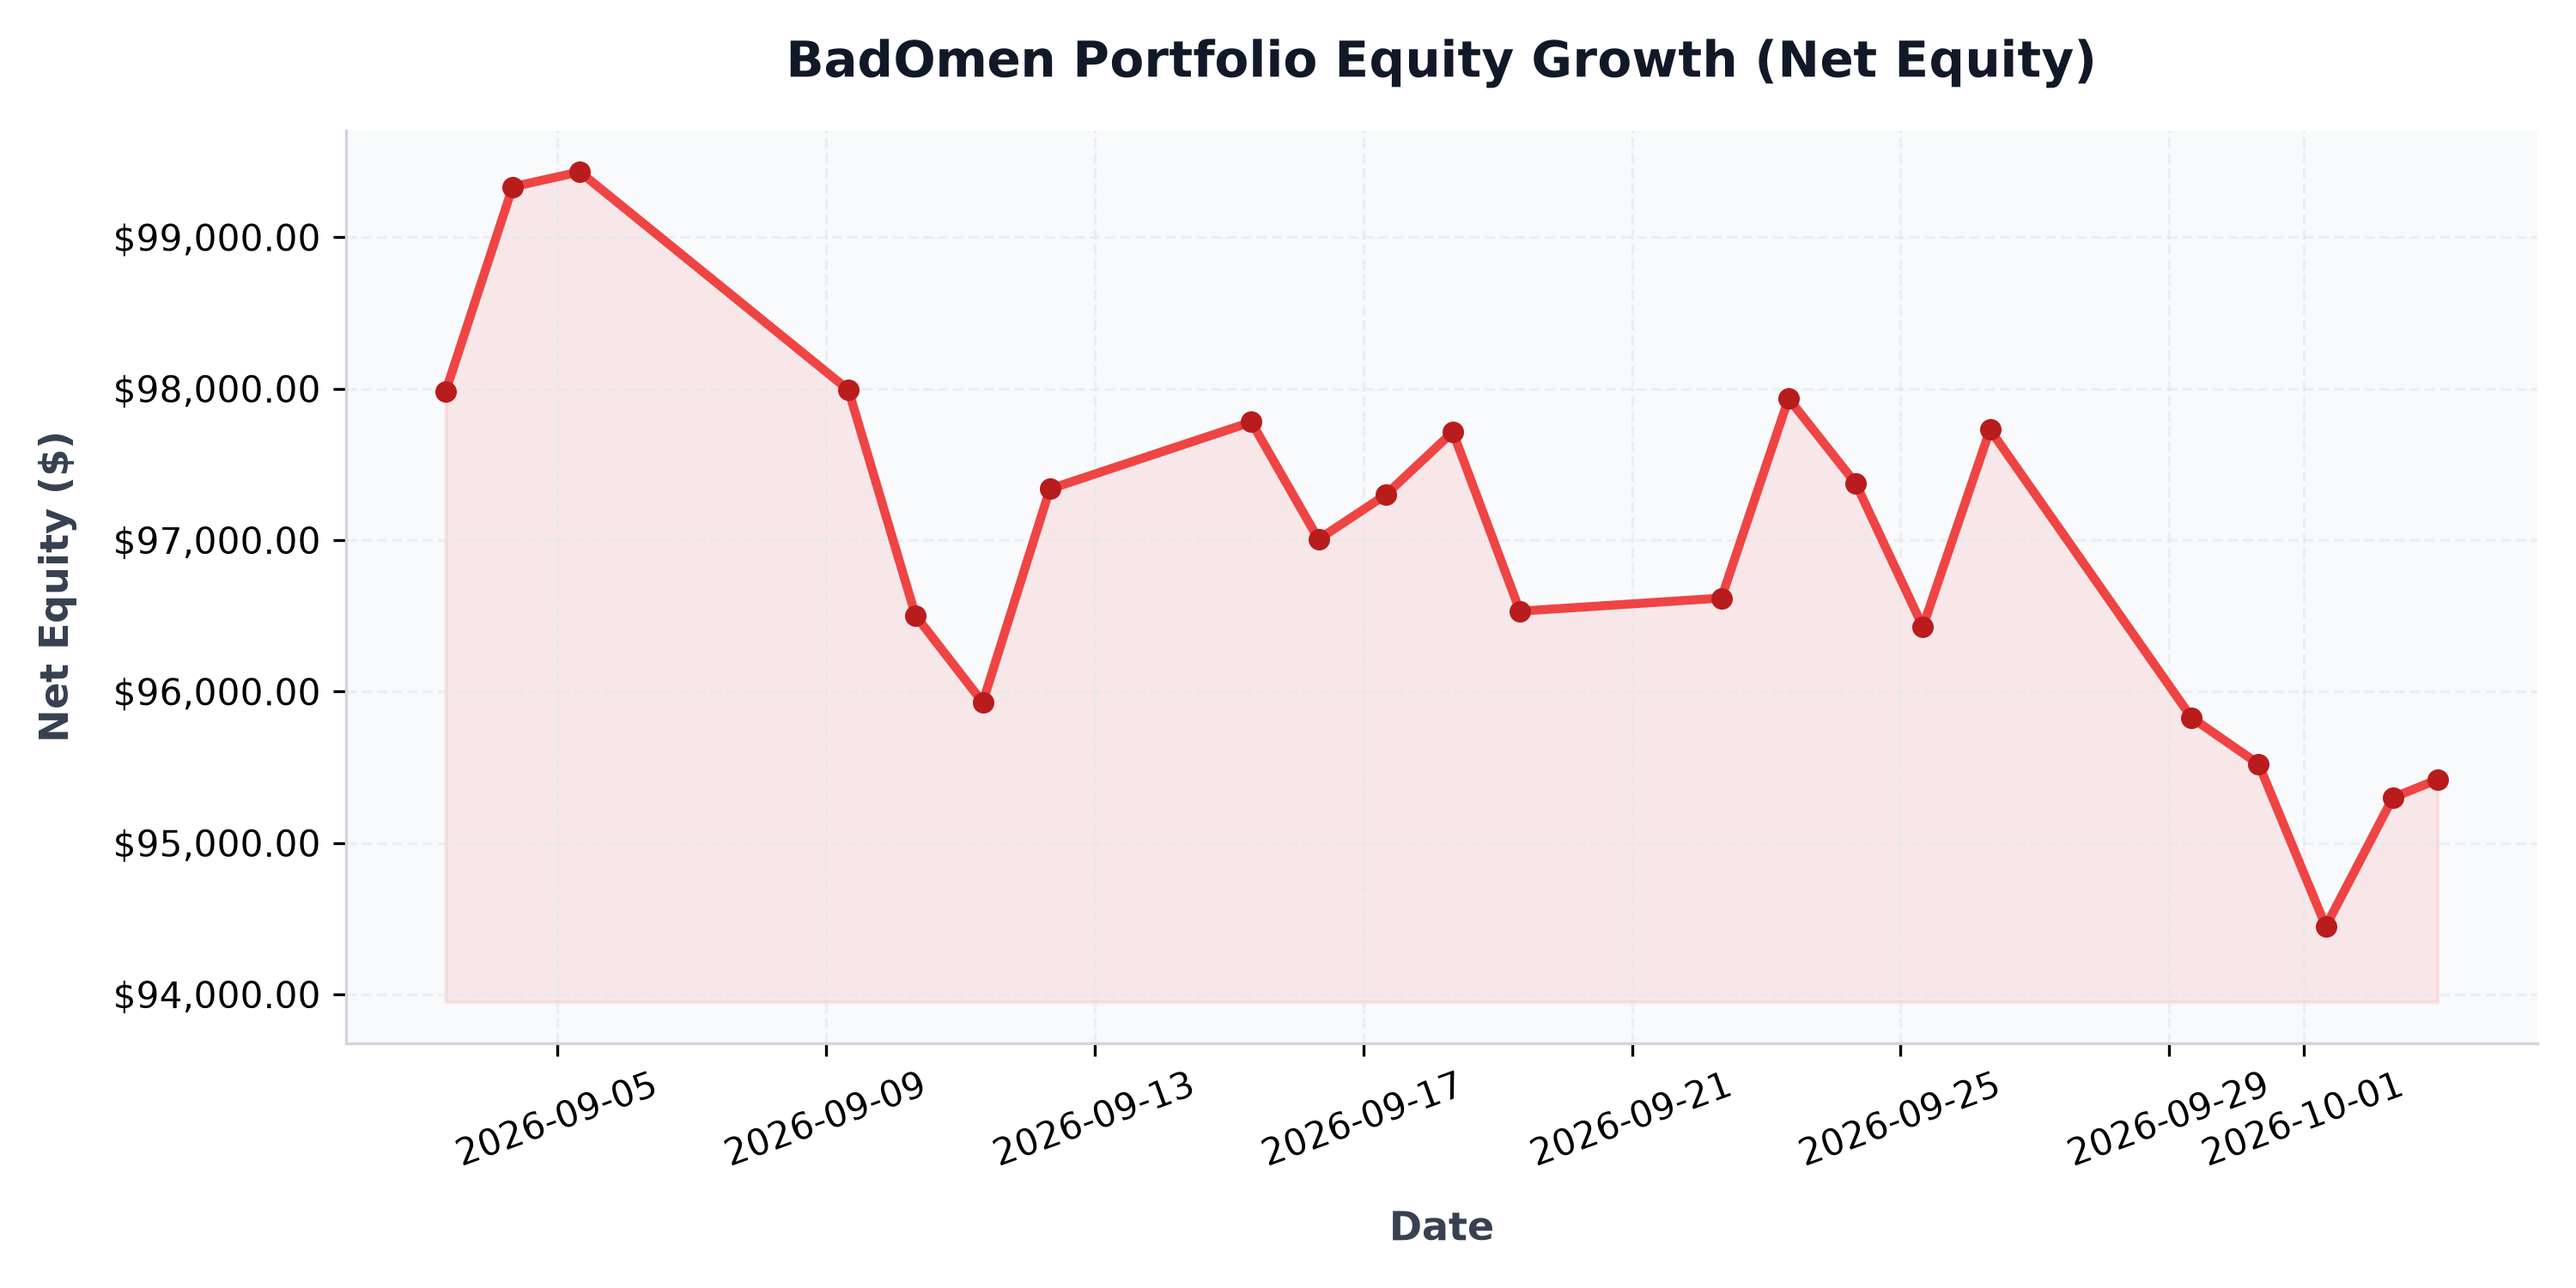
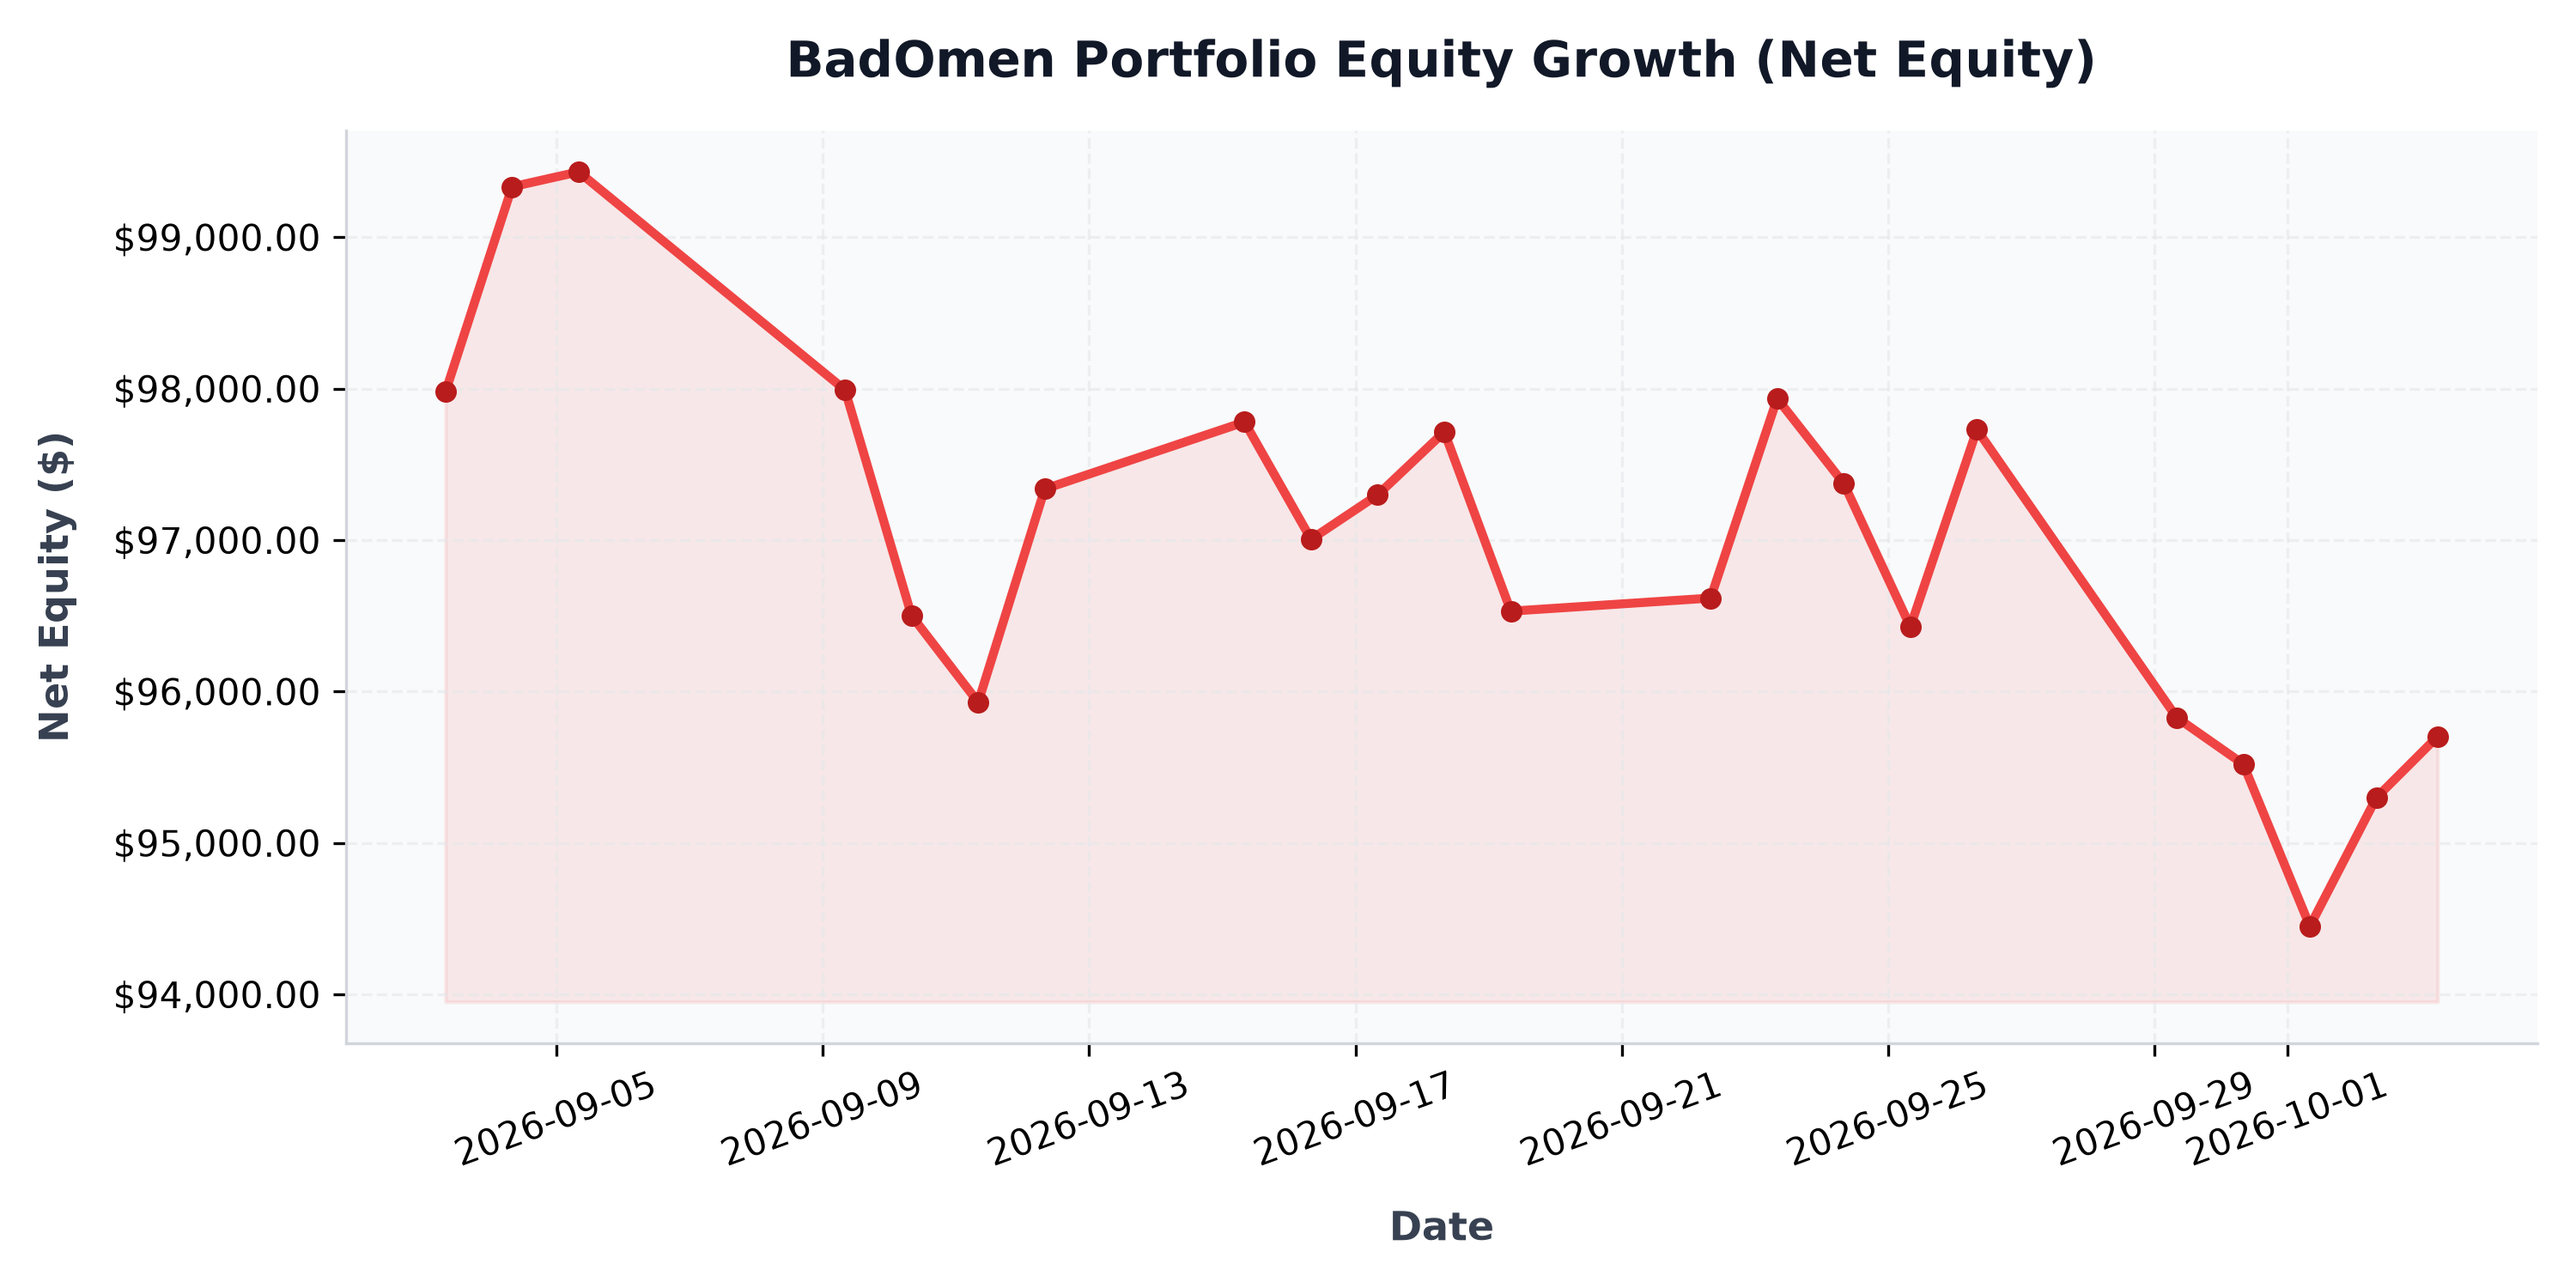
auto: daily portfolio status update - 2026-10-03 06:05:14

diff --git a/src/content/posts/portfolio-performance.md b/src/content/posts/portfolio-performance.md
@@ -1,6 +1,6 @@
 ---
 title: "BadOmen Algorithmic Portfolio Performance & PnL Report"
-pubDatetime: 2026-10-03T00:00:17.773343+08:00
+pubDatetime: 2026-10-03T06:05:14.220375+08:00
 description: "Live performance metrics, active holdings, and historic equity curve for the BadOmen automated paper trading portfolio."
 featured: true
 draft: false
@@ -16,11 +16,11 @@ Welcome to the live performance dashboard for **BadOmen**, our automated algorit
 ## 📊 Portfolio Summary
 | Performance Metric | Value | description |
 | :--- | :--- | :--- |
-| **Net Portfolio Equity** | **$95,419.35** | Total current liquidation value of cash and stock holdings |
-| **Total Unrealized P&L** | 🔴 **$-5,627.02** (-5.57%) | Total return of current open holdings |
+| **Net Portfolio Equity** | **$95,704.18** | Total current liquidation value of cash and stock holdings |
+| **Total Unrealized P&L** | 🔴 **$-5,348.15** (-5.29%) | Total return of current open holdings |
 | **Cash Balance** | $24,224.56 | Idle reserve currency available for limit orders |
-| **Buying Power** | $296,243.66 | Margin-backed buying power for entry allocations |
-| **Report Updated** | `2026-10-03 00:00:17 (SGT)` | Timestamp of daily execution and sync run |
+| **Buying Power** | $297,041.18 | Margin-backed buying power for entry allocations |
+| **Report Updated** | `2026-10-03 06:05:14 (SGT)` | Timestamp of daily execution and sync run |
 
 ## 📈 Net Equity Growth Curve
 The chart below illustrates the historical performance of the account starting from our baseline capital funding of $100,000.00.
@@ -35,35 +35,35 @@ The chart below illustrates the exposure of our currently held active positions 
 ## 💼 Current Position Holdings
 | Ticker | Industry | Shares Owned | Average Entry Cost | Current Price | Unrealized P&L | Return (%) |
 | :--- | :--- | :--- | :--- | :--- | :--- | :--- |
-| **AN** | Auto & Truck Dealerships | 5 | $188.51 | $164.25 | 🔴 $-121.29 | -12.87% |
-| **AVGO** | Semiconductors | 1 | $385.71 | $354.69 | 🔴 $-31.02 | -8.04% |
-| **BIRK** | Footwear & Accessories | 407 | $37.32 | $33.31 | 🔴 $-1,631.14 | -10.74% |
-| **BLBD** | Farm & Heavy Construction Machinery | 231 | $65.52 | $56.41 | 🔴 $-2,104.63 | -13.91% |
-| **BVN** | Other Precious Metals & Mining | 32 | $31.88 | $31.36 | 🔴 $-16.32 | -1.60% |
-| **CELH** | Beverages - Non-Alcoholic | 33 | $29.71 | $26.69 | 🔴 $-99.75 | -10.17% |
-| **CPRI** | Luxury Goods | 1042 | $14.55 | $14.30 | 🔴 $-262.38 | -1.73% |
-| **DUOL** | Software - Application | 14 | $131.04 | $144.78 | 🟢 +$192.30 | +10.48% |
-| **FIS** | Information Technology Services | 23 | $41.79 | $32.19 | 🔴 $-220.80 | -22.97% |
-| **GDDY** | Software - Infrastructure | 6 | $76.21 | $96.39 | 🟢 +$121.08 | +26.48% |
-| **GDS** | Information Technology Services | 30 | $32.77 | $27.84 | 🔴 $-147.90 | -15.04% |
-| **GGAL** | Banks - Regional | 17 | $56.04 | $35.98 | 🔴 $-340.93 | -35.79% |
-| **GOOGL** | Internet Content & Information | 3 | $319.44 | $342.69 | 🟢 +$69.77 | +7.28% |
-| **GPI** | Auto & Truck Dealerships | 3 | $316.15 | $249.97 | 🔴 $-198.54 | -20.93% |
-| **HUBS** | Software - Application | 8 | $221.18 | $211.50 | 🔴 $-77.45 | -4.38% |
-| **ITRI** | Scientific & Technical Instruments | 12 | $81.80 | $86.49 | 🟢 +$56.28 | +5.73% |
-| **KBR** | Engineering & Construction | 27 | $36.23 | $34.12 | 🔴 $-57.05 | -5.83% |
-| **NESR** | Oil & Gas Equipment & Services | 34 | $28.74 | $25.66 | 🔴 $-104.55 | -10.70% |
-| **NU** | Banks - Regional | 57 | $11.60 | $13.12 | 🟢 +$86.72 | +13.12% |
-| **ON** | Semiconductors | 10 | $90.45 | $84.59 | 🔴 $-58.65 | -6.48% |
-| **ORCL** | Software - Infrastructure | 5 | $181.95 | $141.07 | 🔴 $-204.38 | -22.47% |
-| **PATH** | Software - Infrastructure | 38 | $10.25 | $13.05 | 🟢 +$106.40 | +27.32% |
-| **PYPL** | Credit Services | 17 | $56.05 | $52.85 | 🔴 $-54.31 | -5.70% |
-| **QCOM** | Semiconductors | 15 | $193.68 | $186.91 | 🔴 $-101.70 | -3.50% |
-| **SMCI** | Computer Hardware | 22 | $29.25 | $43.40 | 🟢 +$311.30 | +48.38% |
-| **SRE** | Utilities - Diversified | 57 | $84.75 | $78.41 | 🔴 $-361.80 | -7.49% |
-| **T** | Telecom Services | 47 | $20.85 | $24.25 | 🟢 +$159.56 | +16.28% |
-| **WEN** | Restaurants | 257 | $8.02 | $6.29 | 🔴 $-444.28 | -21.55% |
-| **ZG** | Internet Content & Information | 31 | $31.35 | $28.40 | 🔴 $-91.55 | -9.42% |
+| **AN** | Auto & Truck Dealerships | 5 | $188.51 | $162.46 | 🔴 $-130.24 | -13.82% |
+| **AVGO** | Semiconductors | 1 | $385.71 | $354.94 | 🔴 $-30.77 | -7.98% |
+| **BIRK** | Footwear & Accessories | 407 | $37.32 | $33.70 | 🔴 $-1,472.41 | -9.69% |
+| **BLBD** | Farm & Heavy Construction Machinery | 231 | $65.52 | $56.53 | 🔴 $-2,075.76 | -13.72% |
+| **BVN** | Other Precious Metals & Mining | 32 | $31.88 | $31.39 | 🔴 $-15.52 | -1.52% |
+| **CELH** | Beverages - Non-Alcoholic | 33 | $29.71 | $26.82 | 🔴 $-95.55 | -9.74% |
+| **CPRI** | Luxury Goods | 1042 | $14.55 | $14.44 | 🔴 $-116.50 | -0.77% |
+| **DUOL** | Software - Application | 14 | $131.04 | $144.00 | 🟢 +$181.38 | +9.89% |
+| **FIS** | Information Technology Services | 23 | $41.79 | $32.50 | 🔴 $-213.67 | -22.23% |
+| **GDDY** | Software - Infrastructure | 6 | $76.21 | $97.15 | 🟢 +$125.64 | +27.48% |
+| **GDS** | Information Technology Services | 30 | $32.77 | $27.58 | 🔴 $-155.70 | -15.84% |
+| **GGAL** | Banks - Regional | 17 | $56.04 | $35.89 | 🔴 $-342.54 | -35.96% |
+| **GOOGL** | Internet Content & Information | 3 | $319.44 | $343.20 | 🟢 +$71.28 | +7.44% |
+| **GPI** | Auto & Truck Dealerships | 3 | $316.15 | $249.84 | 🔴 $-198.93 | -20.97% |
+| **HUBS** | Software - Application | 8 | $221.18 | $213.40 | 🔴 $-62.25 | -3.52% |
+| **ITRI** | Scientific & Technical Instruments | 12 | $81.80 | $88.00 | 🟢 +$74.40 | +7.58% |
+| **KBR** | Engineering & Construction | 27 | $36.23 | $34.38 | 🔴 $-50.03 | -5.11% |
+| **NESR** | Oil & Gas Equipment & Services | 34 | $28.74 | $25.08 | 🔴 $-124.44 | -12.73% |
+| **NU** | Banks - Regional | 57 | $11.60 | $13.40 | 🟢 +$102.68 | +15.53% |
+| **ON** | Semiconductors | 10 | $90.45 | $84.85 | 🔴 $-56.05 | -6.20% |
+| **ORCL** | Software - Infrastructure | 5 | $181.95 | $142.15 | 🔴 $-199.00 | -21.87% |
+| **PATH** | Software - Infrastructure | 38 | $10.25 | $13.10 | 🟢 +$108.30 | +27.81% |
+| **PYPL** | Credit Services | 17 | $56.05 | $52.76 | 🔴 $-55.93 | -5.87% |
+| **QCOM** | Semiconductors | 15 | $193.68 | $185.20 | 🔴 $-127.27 | -4.38% |
+| **SMCI** | Computer Hardware | 22 | $29.25 | $43.58 | 🟢 +$315.26 | +48.99% |
+| **SRE** | Utilities - Diversified | 57 | $84.75 | $78.00 | 🔴 $-384.89 | -7.97% |
+| **T** | Telecom Services | 47 | $20.85 | $24.32 | 🟢 +$162.91 | +16.62% |
+| **WEN** | Restaurants | 257 | $8.02 | $6.15 | 🔴 $-481.55 | -23.35% |
+| **ZG** | Internet Content & Information | 31 | $31.35 | $28.09 | 🔴 $-101.01 | -10.39% |
 
 ## 🔴 Recent Realized Trades
 | Ticker | Shares Sold | Entry Price | Exit Price | Strategy Trigger | Realized Return | Exit Date |
